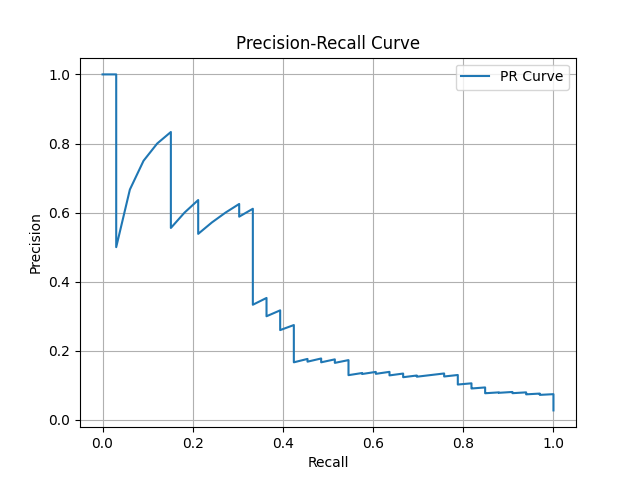
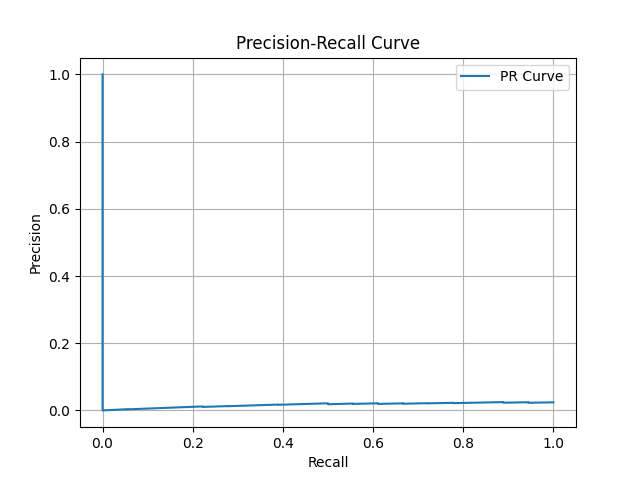
changes

diff --git a/train13.py b/train13.py
@@ -5,7 +5,7 @@ from const import MODEL_PATH_TENSOR_DIR
 from mylogger import Logger
 import os 
 from utilities import json_update
-from net5 import ModelBuilder  # assuming net3 is updated with softmax support
+from net3 import ModelBuilder  # assuming net3 is updated with softmax support
 from tensorflow.keras.utils import to_categorical
 from tensorflow.keras.callbacks import ModelCheckpoint, ReduceLROnPlateau, EarlyStopping
 from tensorflow.keras.optimizers import SGD, Adam
@@ -30,7 +30,7 @@ class Train:
         X_train, X_temp, y_train, y_temp = train_test_split(
             self.dataset.X.numpy(),
             self.dataset.y.numpy(),
-            test_size=self.test_ratio + 0.1, 
+            test_size=self.test_ratio, 
             random_state=42
         )
 
@@ -62,7 +62,7 @@ class Train:
         self.logger.debug(f"y_val False labels: {len(y_val[y_val == 0]) }")
 
 
-        # class_weights = {0:1, 1:1000}
+        class_weights = {0:1, 1:1}
 
         self.logger.info(f"Class weights: {class_weights}")
         
@@ -83,7 +83,7 @@ class Train:
         modelBuilder = ModelBuilder(self.height, self.width)
         model = modelBuilder.model_summary()
         
-        model.compile(optimizer=Adam(learning_rate=0.001), loss='categorical_crossentropy', metrics=['accuracy'])
+        model.compile(optimizer=SGD(learning_rate=0.0001), loss='categorical_crossentropy', metrics=['accuracy'])
 
      
         self.logger.info("Training model...")
